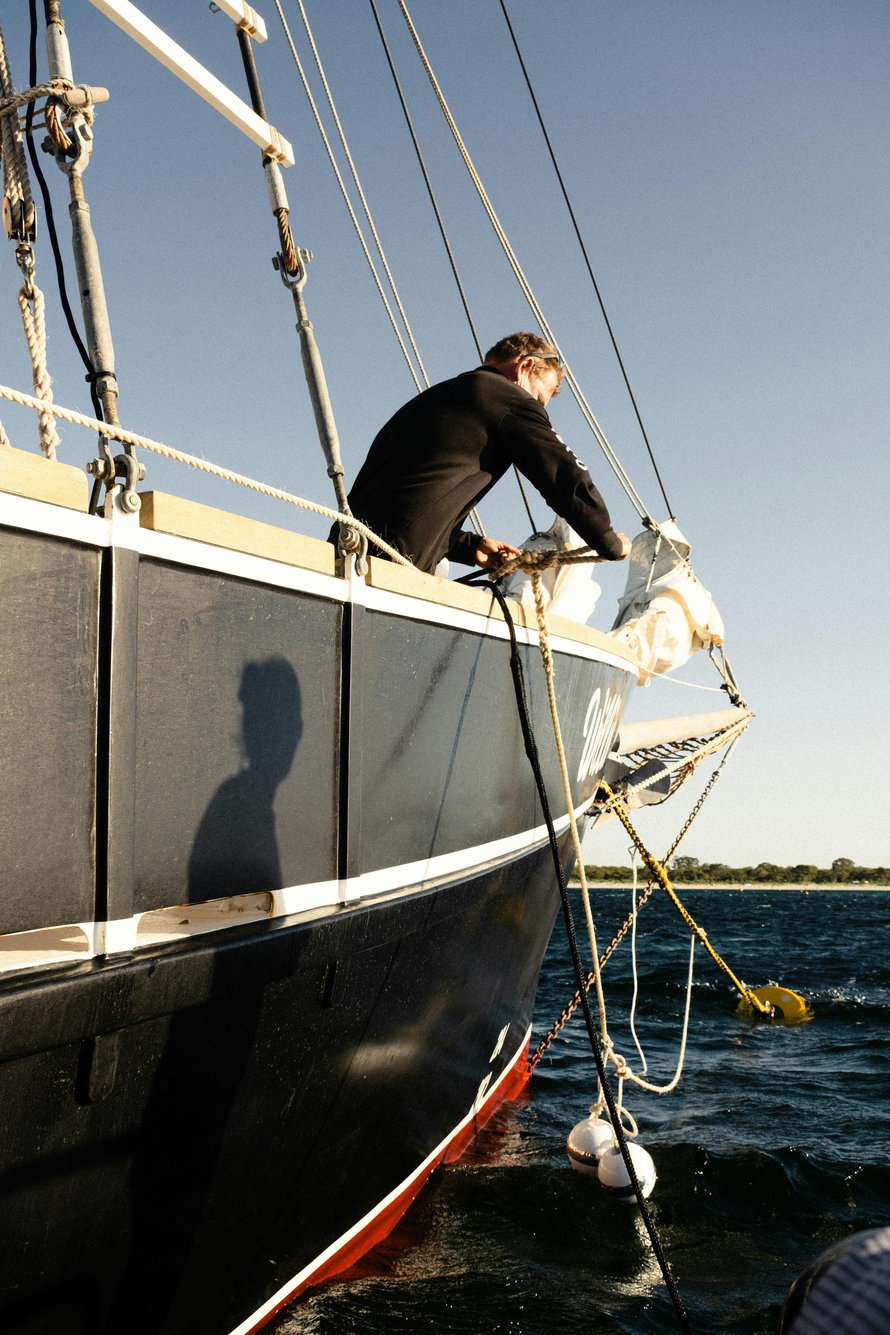
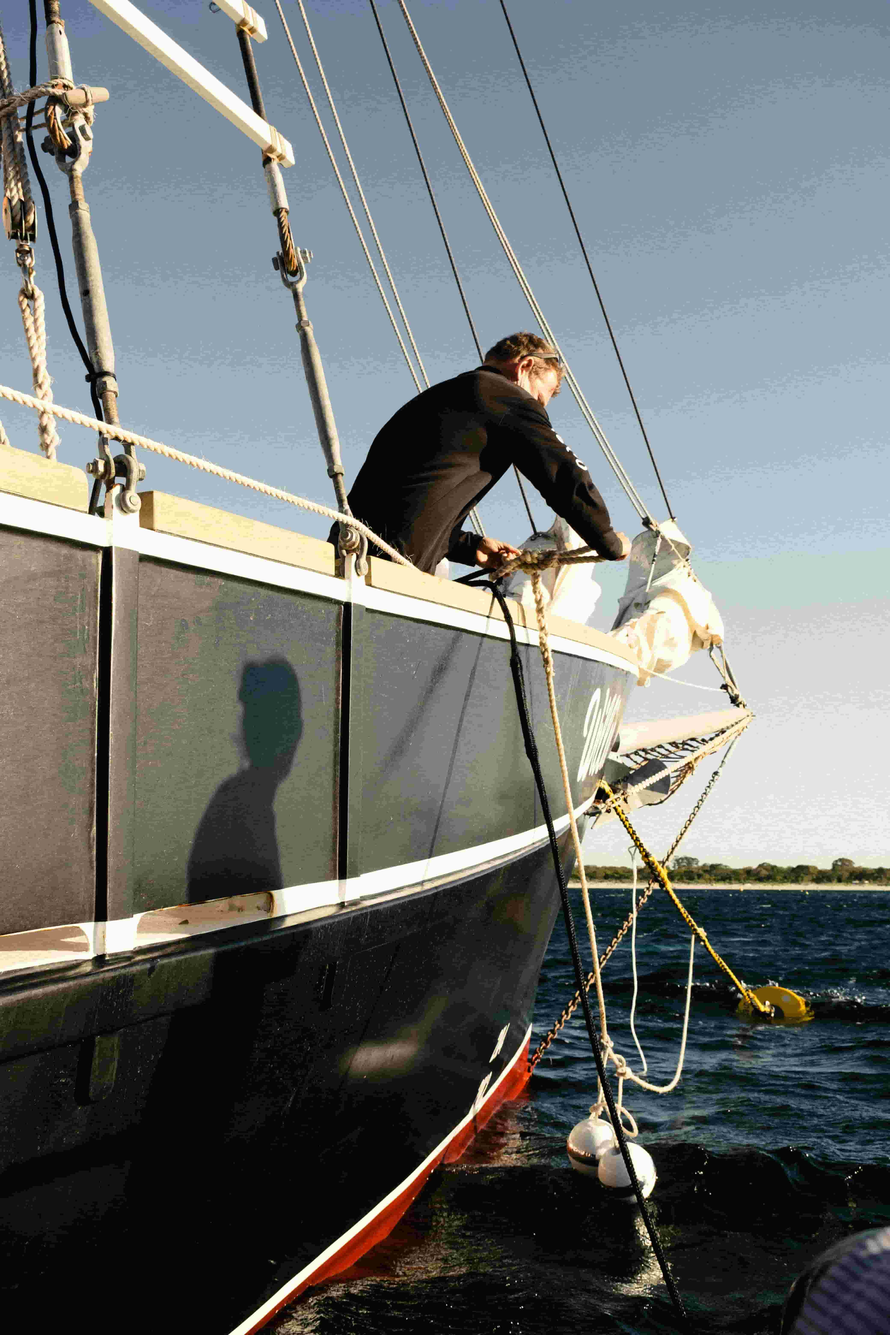
Changed images clarity

diff --git a/README.md b/README.md
@@ -1,8 +1,2 @@
 ### Hej! Jag heter Dong och här är min portfolio: https://portfolio.dongzhutan.com/ 
 
-***
-
-### 1. Home page:
-![Home page](my-next-app/public/images/home-page.png)
-
-***
